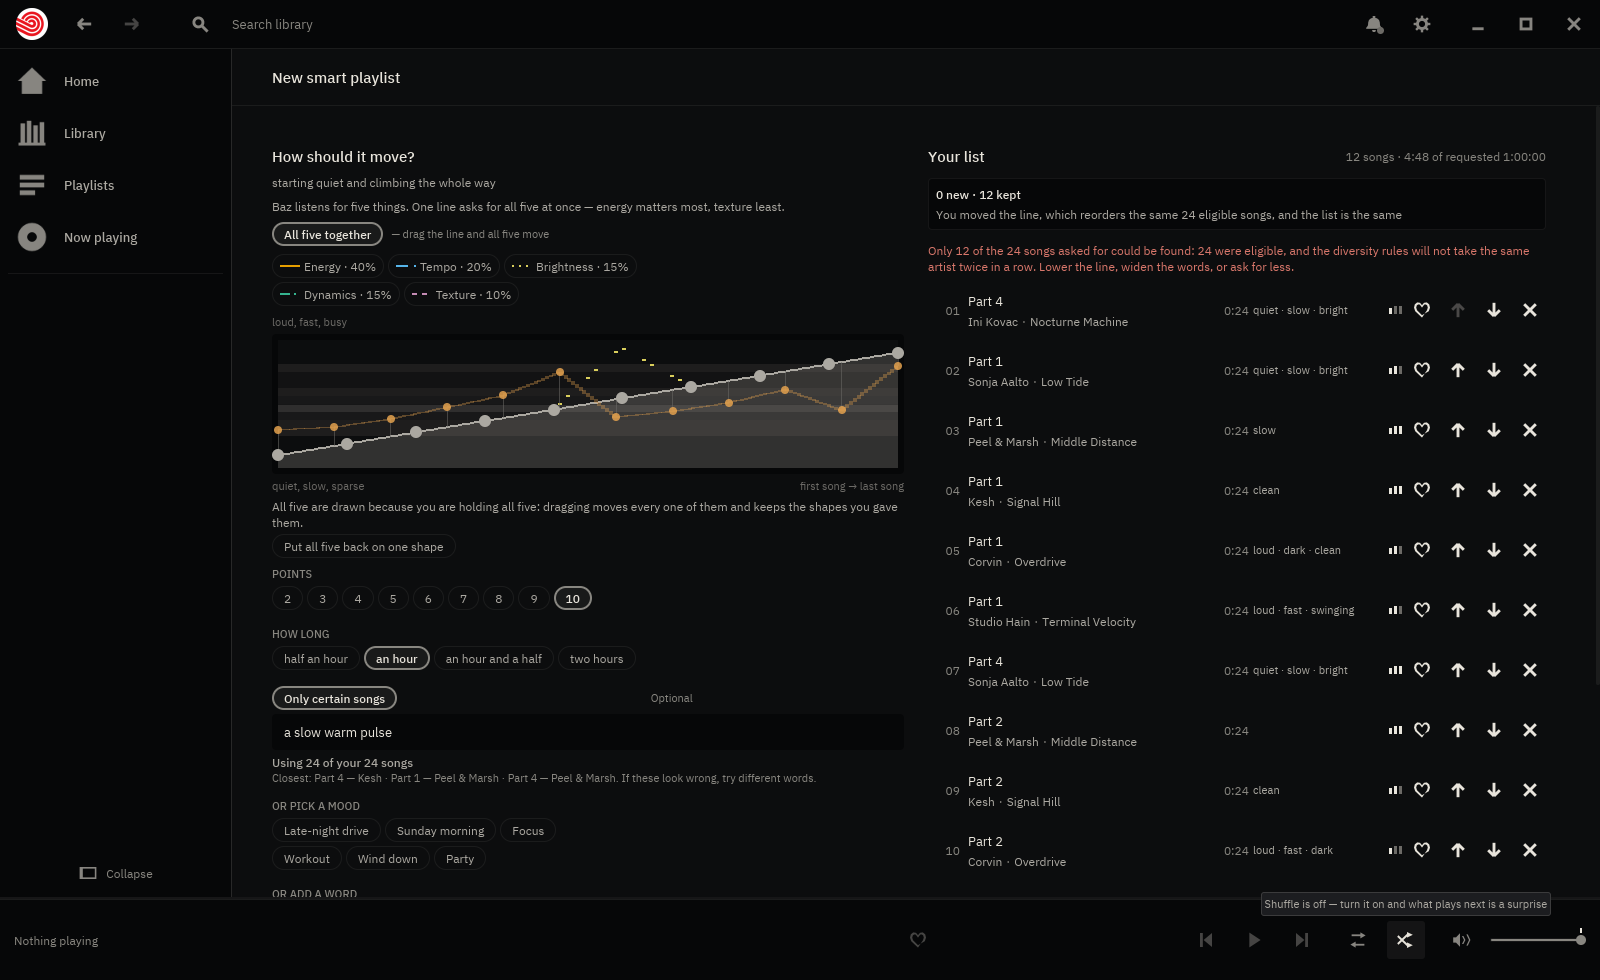
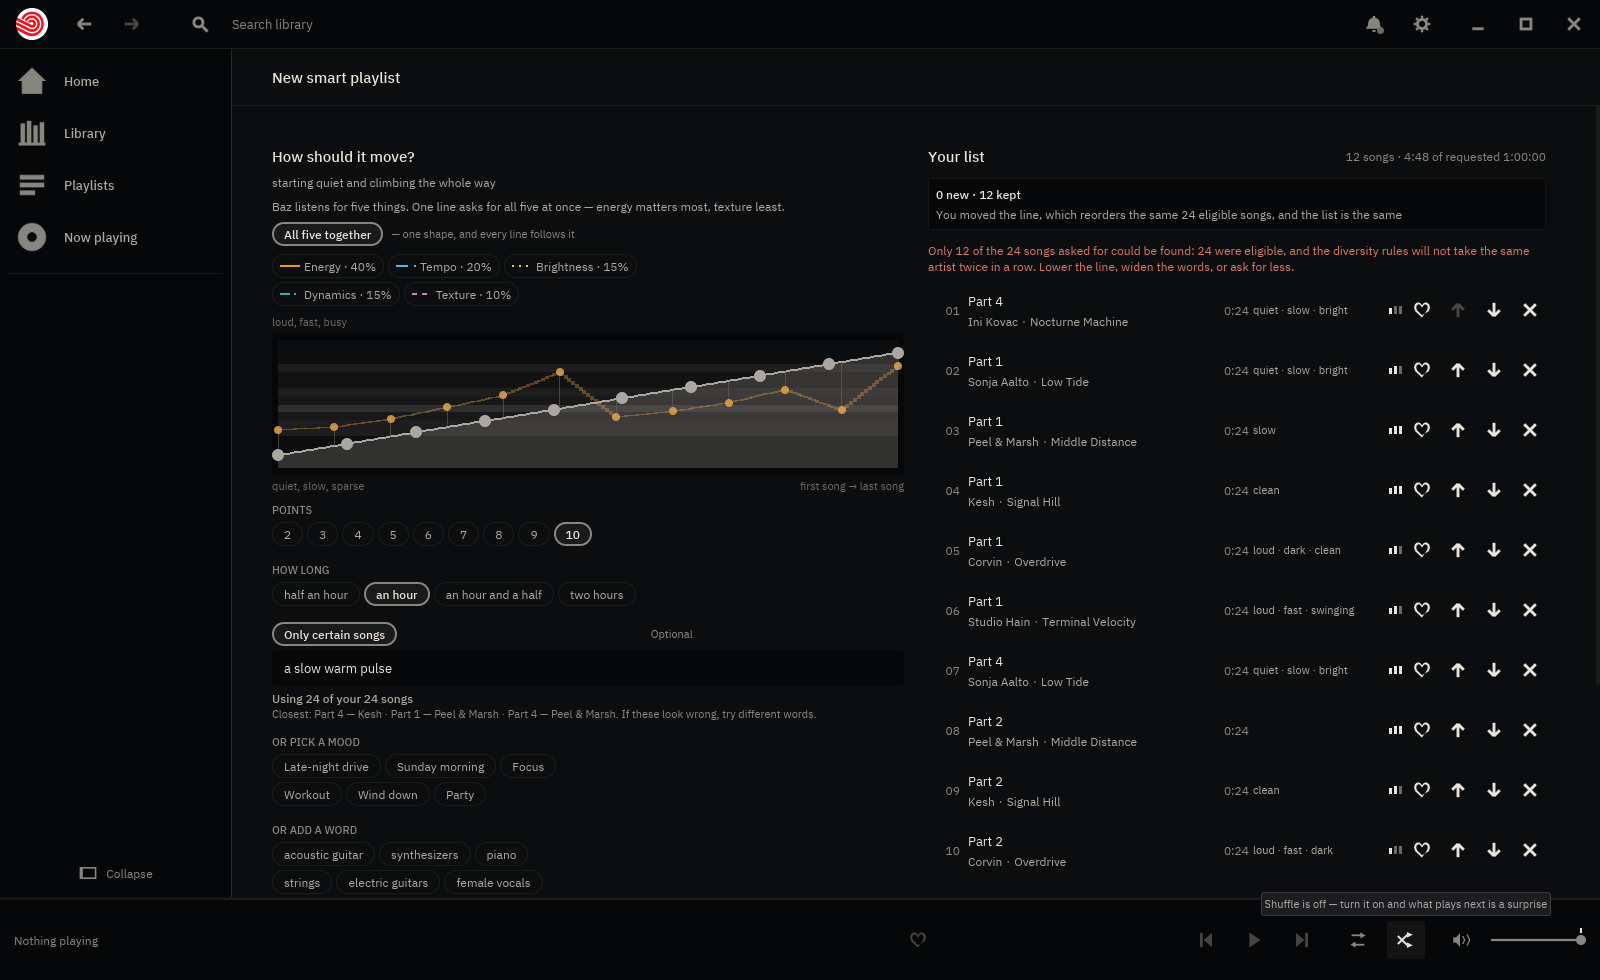
All five together is a shape, not a view of five
Third telling, and the first two answers were wrong for the same reason.
"If you go back to all five mode it should start to control all lines." Then:
"basically the all thing should be controlling all lines." Then, plainly: "if
I've edited any of the individual lines and then go back to all five, it does
not snap the previously edited lines to the 'all five' line."

The first answer made a drag there move every line by the pointer's delta,
keeping whatever spread had been built. The second drew all five at full
strength so it looked like all five were held. Both defensible, both built on
the same wrong premise: that a tab is a view — press it, change what you can
drag, change nothing about the request.

It is not a view. All five together is a shape, and choosing it is choosing to
have one, so every line returns to it. Lossy, and it should be: the
alternative is a control labelled all five presiding over five different
curves, which is what he kept running into. The chip says what it will do
before it is pressed, and the separate gather control is gone because the tab
is now that control.

Twice I answered "what should this do" by making the existing behaviour more
visible, when the complaint was that the behaviour was wrong. Somebody saying
the same thing three times is not failing to see the picture. Written into
note 25 §3a item 5 so the next person reads it before the diff.

Claude-Session: https://claude.ai/code/session_01Uy6gBVY9behWR1G39qyih9

diff --git a/crates/baz/src/vibe.rs b/crates/baz/src/vibe.rs
@@ -1560,21 +1560,37 @@ impl State {
         self.open = true;
     }
 
-    /// **Show one line, or all five.**
+    /// **Show one line, or put every line back on one shape.**
     ///
-    /// A view, and only a view: nothing about the request changes, which is
-    /// what lets the tabs be pressed freely. The old control was an expander
-    /// whose closing put every line back on the first one's curve — lossy,
-    /// and a surprising thing for a *close* to do. Bringing the lines back
-    /// together is its own act now ([`Self::gather_lines`]), named for what
-    /// it does.
+    /// The owner, three times, each time more plainly: *"if I've edited any
+    /// of the individual lines and then go back to all five, it does not snap
+    /// the previously edited lines to the 'all five' line."*
+    ///
+    /// It does now, and the reason it did not is that this was built as a
+    /// **view** — press a tab, change what you can drag, change nothing about
+    /// the request. That is a defensible thing to build and it is not what
+    /// *all five* means to somebody using it. **All five is one shape**, and
+    /// choosing it is choosing to have one, so every line returns to it.
+    ///
+    /// Which shape? The one the tab was already drawing — the first line's,
+    /// which is what a listener last drew there. Lossy by construction, and
+    /// deliberately so: the alternative is what he kept finding, where a tab
+    /// called *all five* quietly presided over five different shapes. The
+    /// chip says what it will do before it is pressed.
     pub(crate) fn show_line(&mut self, lane: Option<usize>) {
         self.shown = lane.filter(|lane| *lane < self.contour.lanes.len());
+        if self.shown.is_none() {
+            self.gather_lines();
+        }
     }
 
-    /// **Put every line back on one curve.** Lossy on purpose and by
-    /// request: the only way back from five lines to one.
-    pub(crate) fn gather_lines(&mut self) {
+    /// **Put every line back on the first one's curve.** Private to
+    /// [`Self::show_line`]: bringing the lines together is what choosing
+    /// *all five together* means, and there is no second control for it.
+    fn gather_lines(&mut self) {
+        if self.contour.is_one_line() {
+            return;
+        }
         let Some(points) = self.contour.lane(0).map(|lane| lane.points.clone()) else {
             return;
         };
@@ -3102,16 +3118,12 @@ mod tests {
         pub(super) const STD_LOUDNESS: usize = 9;
     }
 
-    /// **All five together means all five**, including after they have been
-    /// pulled apart.
+    /// **All five together is one shape**, and choosing it makes it one.
     ///
-    /// The owner: *"if you go back to all five mode it should start to
-    /// control all lines."* It does, and this is the part worth pinning: a
-    /// drag on that tab moves every line **by what the pointer moved**, so
-    /// the spread somebody built by shaping one line on its own survives
-    /// being nudged from the tab that owns all of them. Setting them all to
-    /// where the pointer landed would be the other, lossy, reading of the
-    /// same sentence.
+    /// The owner had to say this three times, which is three more than it
+    /// should have taken: shaping a line on its own and then returning to
+    /// *all five* must leave five lines holding one curve, not a tab
+    /// presiding over five different ones.
     #[test]
     fn the_all_five_tab_moves_every_line_and_keeps_what_was_shaped_apart() {
         let mut state = State::default();
@@ -3132,26 +3144,30 @@ mod tests {
             );
         }
 
-        // Back to all five, and a nudge upward.
+        // **Back to all five, and every line is back on one shape.** Not a
+        // view of five shapes: one shape, which is what the tab says.
         state.show_line(None);
-        let before: Vec<f32> = (0..5).map(|lane| level(&state, lane, 0)).collect();
-        state.drag_contour(0, 0, 0.0, before[0] + 0.5);
-        for (lane, was) in before.iter().enumerate() {
-            let moved = level(&state, lane, 0) - was;
+        assert!(
+            state.contour.is_one_line(),
+            "all five did not put the lines back on one shape"
+        );
+        let shared = level(&state, 0, 0);
+        for lane in 1..5 {
+            assert!(
+                (level(&state, lane, 0) - shared).abs() < 1e-4,
+                "line {lane}"
+            );
+        }
+
+        // …and a drag there moves every one of them.
+        state.drag_contour(0, 0, 0.0, shared + 0.5);
+        for lane in 0..5 {
+            let moved = level(&state, lane, 0) - shared;
             assert!(
                 (moved - 0.5).abs() < 1e-4,
                 "line {lane} moved by {moved}, not by what the pointer moved"
             );
         }
-        // …and the shape somebody built is still there.
-        assert!(
-            ((level(&state, 2, 0) - level(&state, 0, 0)) - apart).abs() < 1e-4,
-            "the spread was flattened by a drag on all five"
-        );
-
-        // And it can be given up deliberately, which is the only way back.
-        state.gather_lines();
-        assert!(state.contour.is_one_line());
     }
 
     /// **The shape opens the sentence, and the words close it.**

diff --git a/crates/baz/src/views/compose/shape.rs b/crates/baz/src/views/compose/shape.rs
@@ -148,9 +148,11 @@ fn tabs(vibe: &crate::vibe::State) -> Element<'_, Message> {
     let head = row![
         chip("All five together", together, Message::VibeLine(None)),
         joining(if together {
-            "— drag the line and all five move"
-        } else {
+            "— one shape, and every line follows it"
+        } else if vibe.contour.is_one_line() {
             "or"
+        } else {
+            "or — it will put every line back on one shape"
         }),
     ]
     .spacing(theme::GAP_SM)
@@ -246,21 +248,23 @@ fn line(vibe: &crate::vibe::State) -> Element<'_, Message> {
     // The four you are not editing. On *all five* there is nothing to ghost:
     // every line is the line, and drawing four copies of it under itself
     // would only thicken it.
-    let ghosts: Vec<(&[crate::vibe::ContourPoint], usize)> = vibe
-        .contour
-        .lanes
-        .iter()
-        .enumerate()
-        .filter(|(other, _)| *other != index)
-        .map(|(other, lane)| (lane.points.as_slice(), other))
-        .collect();
+    // On *all five together* there is nothing to ghost: choosing that tab
+    // puts every line on one shape, so the other four are exactly this one.
+    let ghosts: Vec<(&[crate::vibe::ContourPoint], usize)> = shown.map_or_else(Vec::new, |lane| {
+        vibe.contour
+            .lanes
+            .iter()
+            .enumerate()
+            .filter(|(other, _)| *other != lane)
+            .map(|(other, other_lane)| (other_lane.points.as_slice(), other))
+            .collect()
+    });
     // **The axis words sit above and below the line, not in a gutter beside
     // it.** Three words do not fit a 48 px lane, and the first attempt put
     // *quiet, slow, sparse* straight through *first song*. Above and below
     // there is the whole measure for them, and no legend anywhere.
     let canvas = crate::contour::Contour::new(points, room, theme::CONTOUR_H)
         .ghosts(ghosts)
-        .ghosts_held(shown.is_none())
         .series(shown)
         .field(cloud(vibe, shown))
         .result(dots(vibe, shown))
@@ -302,22 +306,14 @@ fn line(vibe: &crate::vibe::State) -> Element<'_, Message> {
             )));
         }
     }
-    // **The way back, wherever you notice you want it.** It appeared only
-    // while a single line was selected, which is the one place you are *not*
-    // looking at all five drifting apart.
-    if !vibe.contour.is_one_line() {
-        block = block
-            .push(views::hint(if vibe.shown.is_some() {
-                "The faint lines behind are the four you are not holding."
-            } else {
-                "All five are drawn because you are holding all five: dragging moves \
-                 every one of them and keeps the shapes you gave them."
-            }))
-            .push(chip(
-                "Put all five back on one shape",
-                false,
-                Message::VibeGatherLines,
-            ));
+    // **The way back is the tab**, so there is no second control for it. The
+    // faint lines say what they are while one is being shaped, and nothing
+    // needs saying on *all five*, where they are all this one.
+    if vibe.shown.is_some() && !vibe.contour.is_one_line() {
+        block = block.push(views::hint(
+            "The faint lines are the other four. All five together puts them all back \
+             on one shape.",
+        ));
     }
     block.into()
 }

diff --git a/crates/baz/src/contour.rs b/crates/baz/src/contour.rs
@@ -76,7 +76,6 @@ type OnDrag<'a, Message> = Box<dyn Fn(usize, f32, f32) -> Message + 'a>;
 pub(crate) struct Contour<'a, Message> {
     points: &'a [ContourPoint],
     ghosts: Vec<(&'a [ContourPoint], usize)>,
-    ghosts_held: bool,
     series: Option<usize>,
     field: &'a [f32],
     result: Vec<(f32, f32)>,
@@ -125,7 +124,6 @@ impl<'a, Message> Contour<'a, Message> {
         Self {
             points,
             ghosts: Vec::new(),
-            ghosts_held: false,
             series: None,
             field: &[],
             result: Vec::new(),
@@ -151,23 +149,6 @@ impl<'a, Message> Contour<'a, Message> {
     #[must_use]
     pub(crate) fn ghosts(mut self, ghosts: Vec<(&'a [ContourPoint], usize)>) -> Self {
         self.ghosts = ghosts;
-        self
-    }
-
-    /// **Whether the other lines are being held too.**
-    ///
-    /// On *all five together* they are: a drag moves every one of them, so
-    /// they are drawn at full strength — five lines a listener is holding,
-    /// not four they are not. Faint is for the other case, where one line is
-    /// selected and the rest are context.
-    ///
-    /// The owner had to say it twice — *"basically the all thing should be
-    /// controlling all lines"* — and both times the behaviour was already
-    /// right and the picture was wrong: one solid line over four faint ones
-    /// says you have hold of the solid one.
-    #[must_use]
-    pub(crate) fn ghosts_held(mut self, held: bool) -> Self {
-        self.ghosts_held = held;
         self
     }
 
@@ -542,10 +523,7 @@ where
                 continue;
             }
             let dash = theme::contour_dash(*series);
-            let ink = theme::alpha(
-                theme::contour_series(room, *series),
-                if self.ghosts_held { 1.0 } else { 0.55 },
-            );
+            let ink = theme::alpha(theme::contour_series(room, *series), 0.55);
             let mut x = field.x;
             while x < field.x + field.width {
                 let width = theme::CONTOUR_STEP.min(field.x + field.width - x);

diff --git a/crates/baz/src/app.rs b/crates/baz/src/app.rs
@@ -679,8 +679,6 @@ pub(crate) enum Message {
     /// is why it says *back to one line* rather than *close*.
     /// **Show one of the five lines, or all of them.** A view, not a request.
     VibeLine(Option<usize>),
-    /// Put every line back on one shape.
-    VibeGatherLines,
     /// Edit the in-memory preview without touching music or playlist files.
     VibePreviewRemove(usize),
     VibePreviewShift(usize, i32),
@@ -4266,12 +4264,6 @@ impl App {
             Message::VibeLine(lane) => {
                 if let Screen::Shelf(state) = &mut self.screen {
                     state.vibe.show_line(*lane);
-                }
-                Some(Task::none())
-            }
-            Message::VibeGatherLines => {
-                if let Screen::Shelf(state) = &mut self.screen {
-                    state.vibe.gather_lines();
                 }
                 Some(Task::none())
             }

diff --git a/docs/design/25-the-line-leads.md b/docs/design/25-the-line-leads.md
@@ -140,19 +140,31 @@ the page's subject rather than a setting on it:
    that gap is the disagreement the shares are settling, and it is the only
    place in the feature where that is visible rather than described.
 
-   A tab is a **view**, not a mode: pressing one changes what you can drag and
-   nothing about the request, which is what makes them free to press. Coming
-   back to one shape is its own act now, named for what it does, rather than
-   the side effect of closing an expander.
+   **`All five together` took three tellings, and the first two answers were
+   both wrong for the same reason.** The owner: *"if you go back to all five
+   mode it should start to control all lines"*, then *"basically the all thing
+   should be controlling all lines"*, then — plainly — *"if I've edited any of
+   the individual lines and then go back to all five, it does not snap the
+   previously edited lines to the 'all five' line."*
 
-   **`All five together` had to be told twice**, and both times the behaviour
-   was already right and the picture was wrong. *"If you go back to all five
-   mode it should start to control all lines… basically the all thing should
-   be controlling all lines."* It did — a drag there moves every line — but
-   the canvas drew one solid line over four faint ones, which says you have
-   hold of the solid one. On that tab the other four are drawn at **full
-   strength** now, because they are being held too; faint is for the other
-   case, where one line is selected and the rest are context.
+   The first answer made the drag move every line by the pointer's delta,
+   preserving whatever spread had been built. The second drew all five at full
+   strength on that tab so it looked like all five were held. Both were
+   defensible; both were built on the same wrong premise, which was that a tab
+   is a **view** — press it, change what you can drag, change nothing about
+   the request.
+
+   **It is not a view. `All five together` is a shape**, and choosing it is
+   choosing to have one, so every line returns to it. That is lossy, and it
+   should be: the alternative is what he kept running into, where a control
+   labelled *all five* quietly presided over five different curves. The chip
+   says what it will do before it is pressed, and there is no second control
+   for gathering the lines because the tab is it.
+
+   The lesson is worth keeping past this page. Twice I answered *what should
+   this control do* by making the existing behaviour more visible, when the
+   complaint was that the behaviour was wrong. A user saying the same thing
+   three times is not failing to see the picture.
 
    And the row says which of the two you are in. Six chips in a line read as
    six peers, one of them lit; the *all* chip stands on its own row with the

diff --git a/CHANGELOG.md b/CHANGELOG.md
@@ -44,12 +44,12 @@ Every release is built from a tag by CI, gated on the full test suite — see
   length and the press all fit on screen together. The wording throughout is
   plainer: *how bright or dark a song sounds* rather than *spectral centroid,
   rolloff and zero crossings*.
-- **All five together is one control, and the five are the alternative.** The
-  chip that holds all of them stands on its own with *or* after it, above the
-  five that shape one at a time — and on that tab every line is drawn at full
-  strength, because dragging moves every one of them and keeps whatever shape
-  you gave each. Before, one solid line over four faint ones made it look like
-  you had hold of only the solid one.
+- **All five together is one shape, and choosing it puts every line back on
+  it.** The chip that holds all of them stands on its own with *or* after it,
+  above the five that shape one at a time, and it says what it will do before
+  you press it. Shape brightness on its own, go back to all five, and the five
+  lines are one curve again — rather than a control called *all five* quietly
+  presiding over five different ones.
 - **Each of the five lines has its own dash and colour**, matching the button
   that selects it, so you can tell which is which on the shared graph. The
   dash is the part that has to work — nothing in baz asks you to tell two
